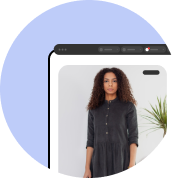
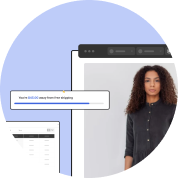
last tweaks for v1.8.1

diff --git a/admin/classes/class-merchant-admin-modules.php b/admin/classes/class-merchant-admin-modules.php
@@ -365,7 +365,7 @@ if ( ! class_exists( 'Merchant_Admin_Modules' ) ) {
 					'section' => 'improve-experience',
 					'icon'         => Merchant_SVG_Icons::get_svg_icon( 'google-autocomplete' ),
 					'title'        => esc_html__( 'Google Address Autocomplete', 'merchant' ),
-					'desc'         => esc_html__( 'Autocomplete the address fields at checkout using the Google Places API.', 'merchant' ),
+					'desc'         => esc_html__( 'Streamline your checkout process and prevent user errors by autocompleting the address fields', 'merchant' ),
 					'tutorial_url' => '',
 				),
 				

diff --git a/admin/notices/class-merchant-notice-upsell.php b/admin/notices/class-merchant-notice-upsell.php
@@ -28,7 +28,7 @@ class Merchant_Notice_Upsell extends Merchant_Notice {
      */
     public function notice_markup() { ?>
         <div class="merchant-notice merchant-notice-with-thumbnail notice" style="position:relative;">
-			<h3><?php echo esc_html__( 'Earn More with Your Store and Merchant! 💰', 'merchant' ); ?></h3>
+			<h3><?php echo esc_html__( 'Earn More with Your Store and Merchant Pro! 💰', 'merchant' ); ?></h3>
 
 			<p>
 				<?php

diff --git a/admin/notices/class-merchant-notice-review.php b/admin/notices/class-merchant-notice-review.php
@@ -65,7 +65,7 @@ class Merchant_Notice_Review extends Merchant_Notice {
 		}
 
 		?>
-		<div class="merchant-notice merchant-notice-with-thumbnail notice" style="position:relative;">
+		<div class="merchant-notice notice" style="position:relative;">
 			<p>
 				<?php
 				printf(

diff --git a/merchant.php b/merchant.php
@@ -12,7 +12,7 @@
  * Domain Path: /languages
  *
  * WC requires at least: 6.0
- * WC tested up to: 8.3
+ * WC tested up to: 8.4
  *
  * @package Merchant
  * @since 1.0
